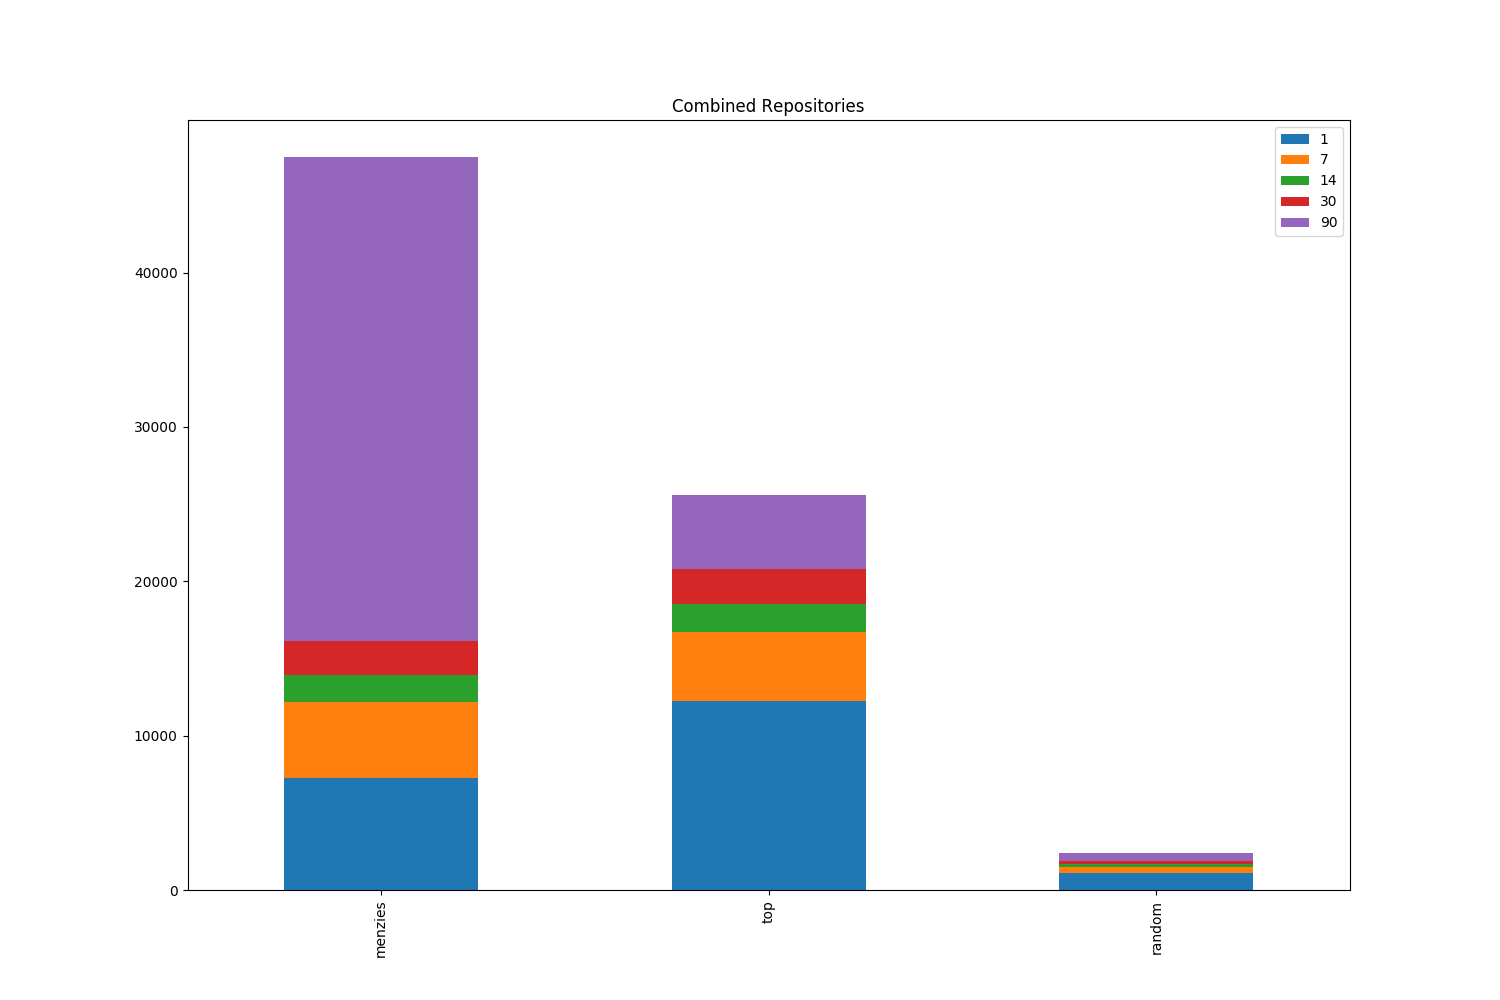
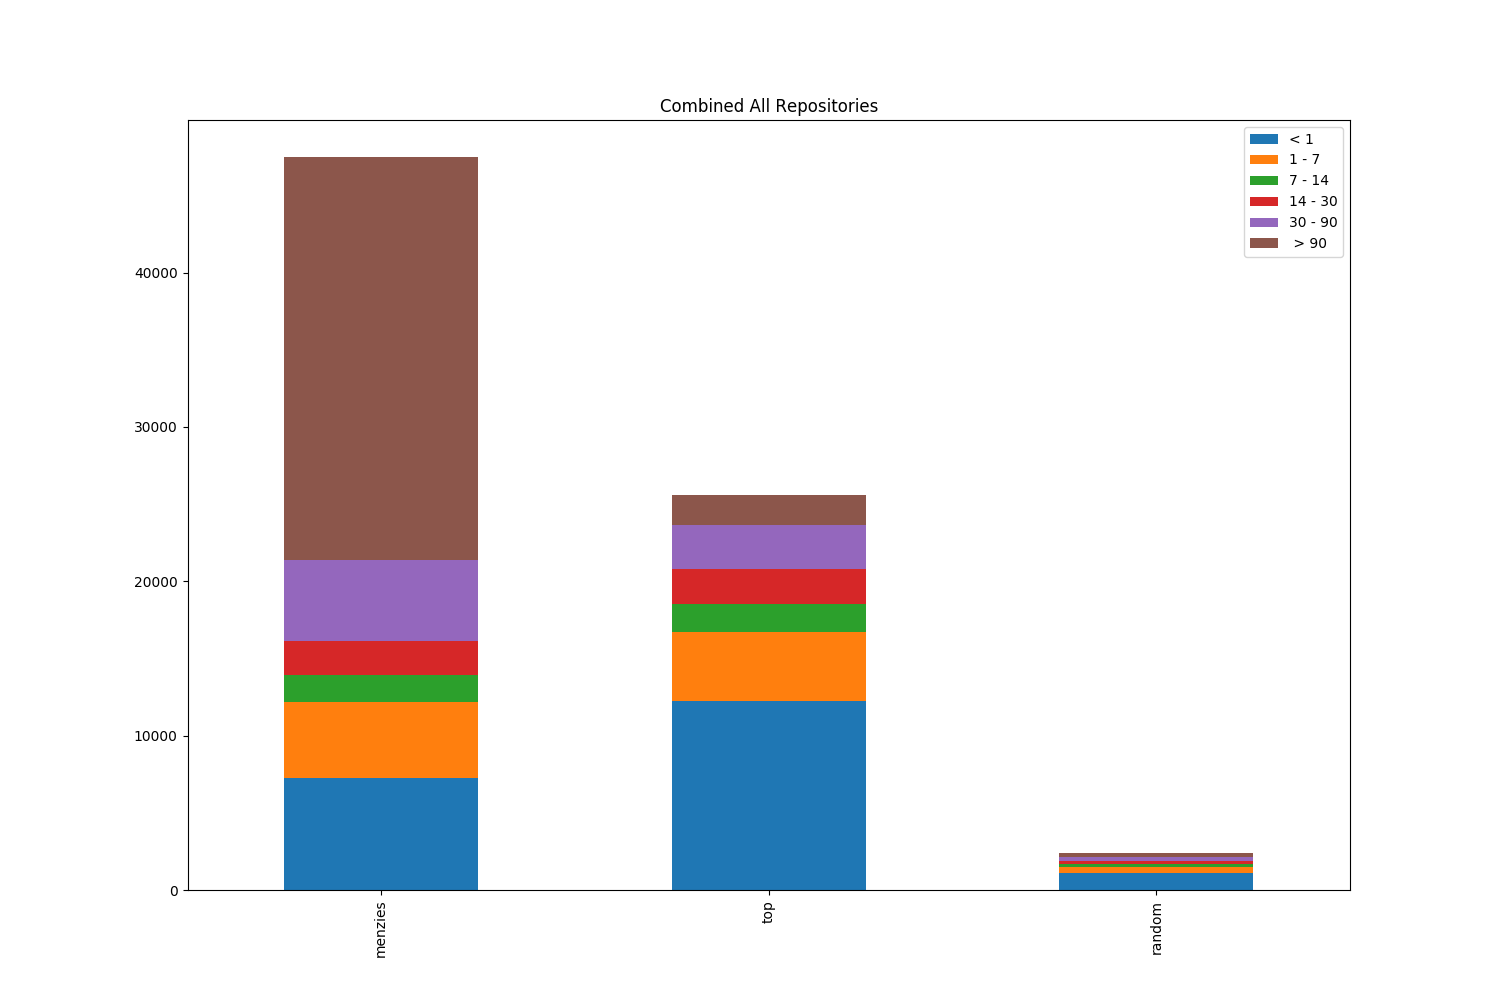
some fixes and new plots

diff --git a/study_repositories.py b/study_repositories.py
@@ -8,7 +8,8 @@ import glob
 FIXED_ISSUES = '/home/arikan/thesis/code/github-issue-lifetime-prediction-master/data_and_code/issue_data/fixed_issues.csv'  # noqa
 
 
-class DataPlotter:
+class DataLoader:
+
     def __init__(self, folder_name):
         in_path = os.path.join(os.getcwd(), 'data', folder_name)
         self.out_path = os.path.join(os.getcwd(), 'out', 'plots', folder_name)
@@ -28,6 +29,13 @@ class DataPlotter:
         ]
         return pd.concat(dataframes, axis=1, sort=False)
 
+    def get_dataframe_by_dataset(self):
+        result = {}
+        for filepath in self.arff_files:
+            filename_without_extension = filepath.split("/")[-1].split('.')[0]
+            result[filename_without_extension] = pd.DataFrame(loadarff(filepath)[0]).astype(int)
+        return result
+
     def collect_dataframe_for_combined_files(self, filepath):
         dataset = loadarff(filepath)
         combined = pd.DataFrame(dataset[0])
@@ -35,7 +43,16 @@ class DataPlotter:
         combined.timeopen = pd.to_numeric(combined.timeopen)
         combined = combined.timeopen.value_counts().sort_index().to_frame().T
         combined.columns = combined.columns.astype(str)
-        combined[' > 90'] = combined['180'] + combined['365'] + combined['1000']  # noqa
+        existing_columns = []
+        if '180' in combined.columns.values:
+            combined[' > 90'] = combined['180']
+            existing_columns.append('180')
+        if '365' in combined.columns.values:
+            combined[' > 90'] = combined[' > 90'] + combined['365']
+            existing_columns.append('365')
+        if '1000' in combined.columns.values:
+            combined[' > 90'] = combined[' > 90'] + combined['365']
+            existing_columns.append('1000')
         combined = combined.rename(
             index=str,
             columns={
@@ -46,12 +63,15 @@ class DataPlotter:
                 "90": "30 - 90",
             }
         )
-        combined = combined.drop(['180', '365', '1000'], axis=1).T
+        combined = combined.drop(existing_columns, axis=1).T
         return combined.rename(index=str, columns={"timeopen": dataset[1].name})
 
-    def plot(self, save=False, stacked=True, title=''):
+
+class DataPlotter(DataLoader):
+
+    def plot(self, save=False, stacked=True, title='', prefix=''):
         size = (15, 10) if save else None
-        filename = 'percentageStacked.png' if stacked else 'percentage.png'
+        filename = f'{prefix}Stacked.png' if stacked else f'{prefix}.png'
         if not stacked:
             columns = list(self.combined.columns.values)
             columns.pop()
@@ -76,6 +96,15 @@ class DataPlotter:
             plt.show()
 
 
+class DataStudier(DataLoader):
+
+    def get_training_details_for_datasets(self):
+        for dataset, dataframe in self.get_dataframe_by_dataset().items():
+            df = dataframe.timeopen.value_counts()
+            col1, col2 = dataframe.timeopen.value_counts().sort_index().to_frame().T.columns.values
+            print(f"{dataset}\t {df[col1]}\t{df[col2]}")
+
+
 class RepositorySetSelector:
 
     def __init__(self):
@@ -92,11 +121,11 @@ class RepositorySetSelector:
         return list(self.issues_df.groupby('rid').count().sample(10)['rid'])
 
 
-# DataPlotter('combined').plot(False, False, title='Combined All Repositories')
-dp = DataPlotter('combinedRepos')
-print(dp.combined)
-for column in dp.combined.columns:
-    total = dp.combined[column].sum()
-    dp.combined[column] = dp.combined[column].apply(lambda val: round((val / total) * 100, 2))
-print(dp.combined)
-dp.plot(False, False, title='Percentage of issue classes')
+dp = DataPlotter('randomRepos')
+dp.plot(save=True, stacked=False, title='Combined All Repositories', prefix='distribution')
+dp.plot(save=True, stacked=True, title='Combined All Repositories', prefix='distribution')
+# for column in dp.combined.columns:
+#     total = dp.combined[column].sum()
+#     dp.combined[column] = dp.combined[column].apply(lambda val: round((val / total) * 100, 2))
+# dp.plot(save=True, stacked=True, title='Percentage of issue classes', prefix='percentage')
+# dp.plot(save=True, stacked=False, title='Percentage of issue classes', prefix='percentage')
